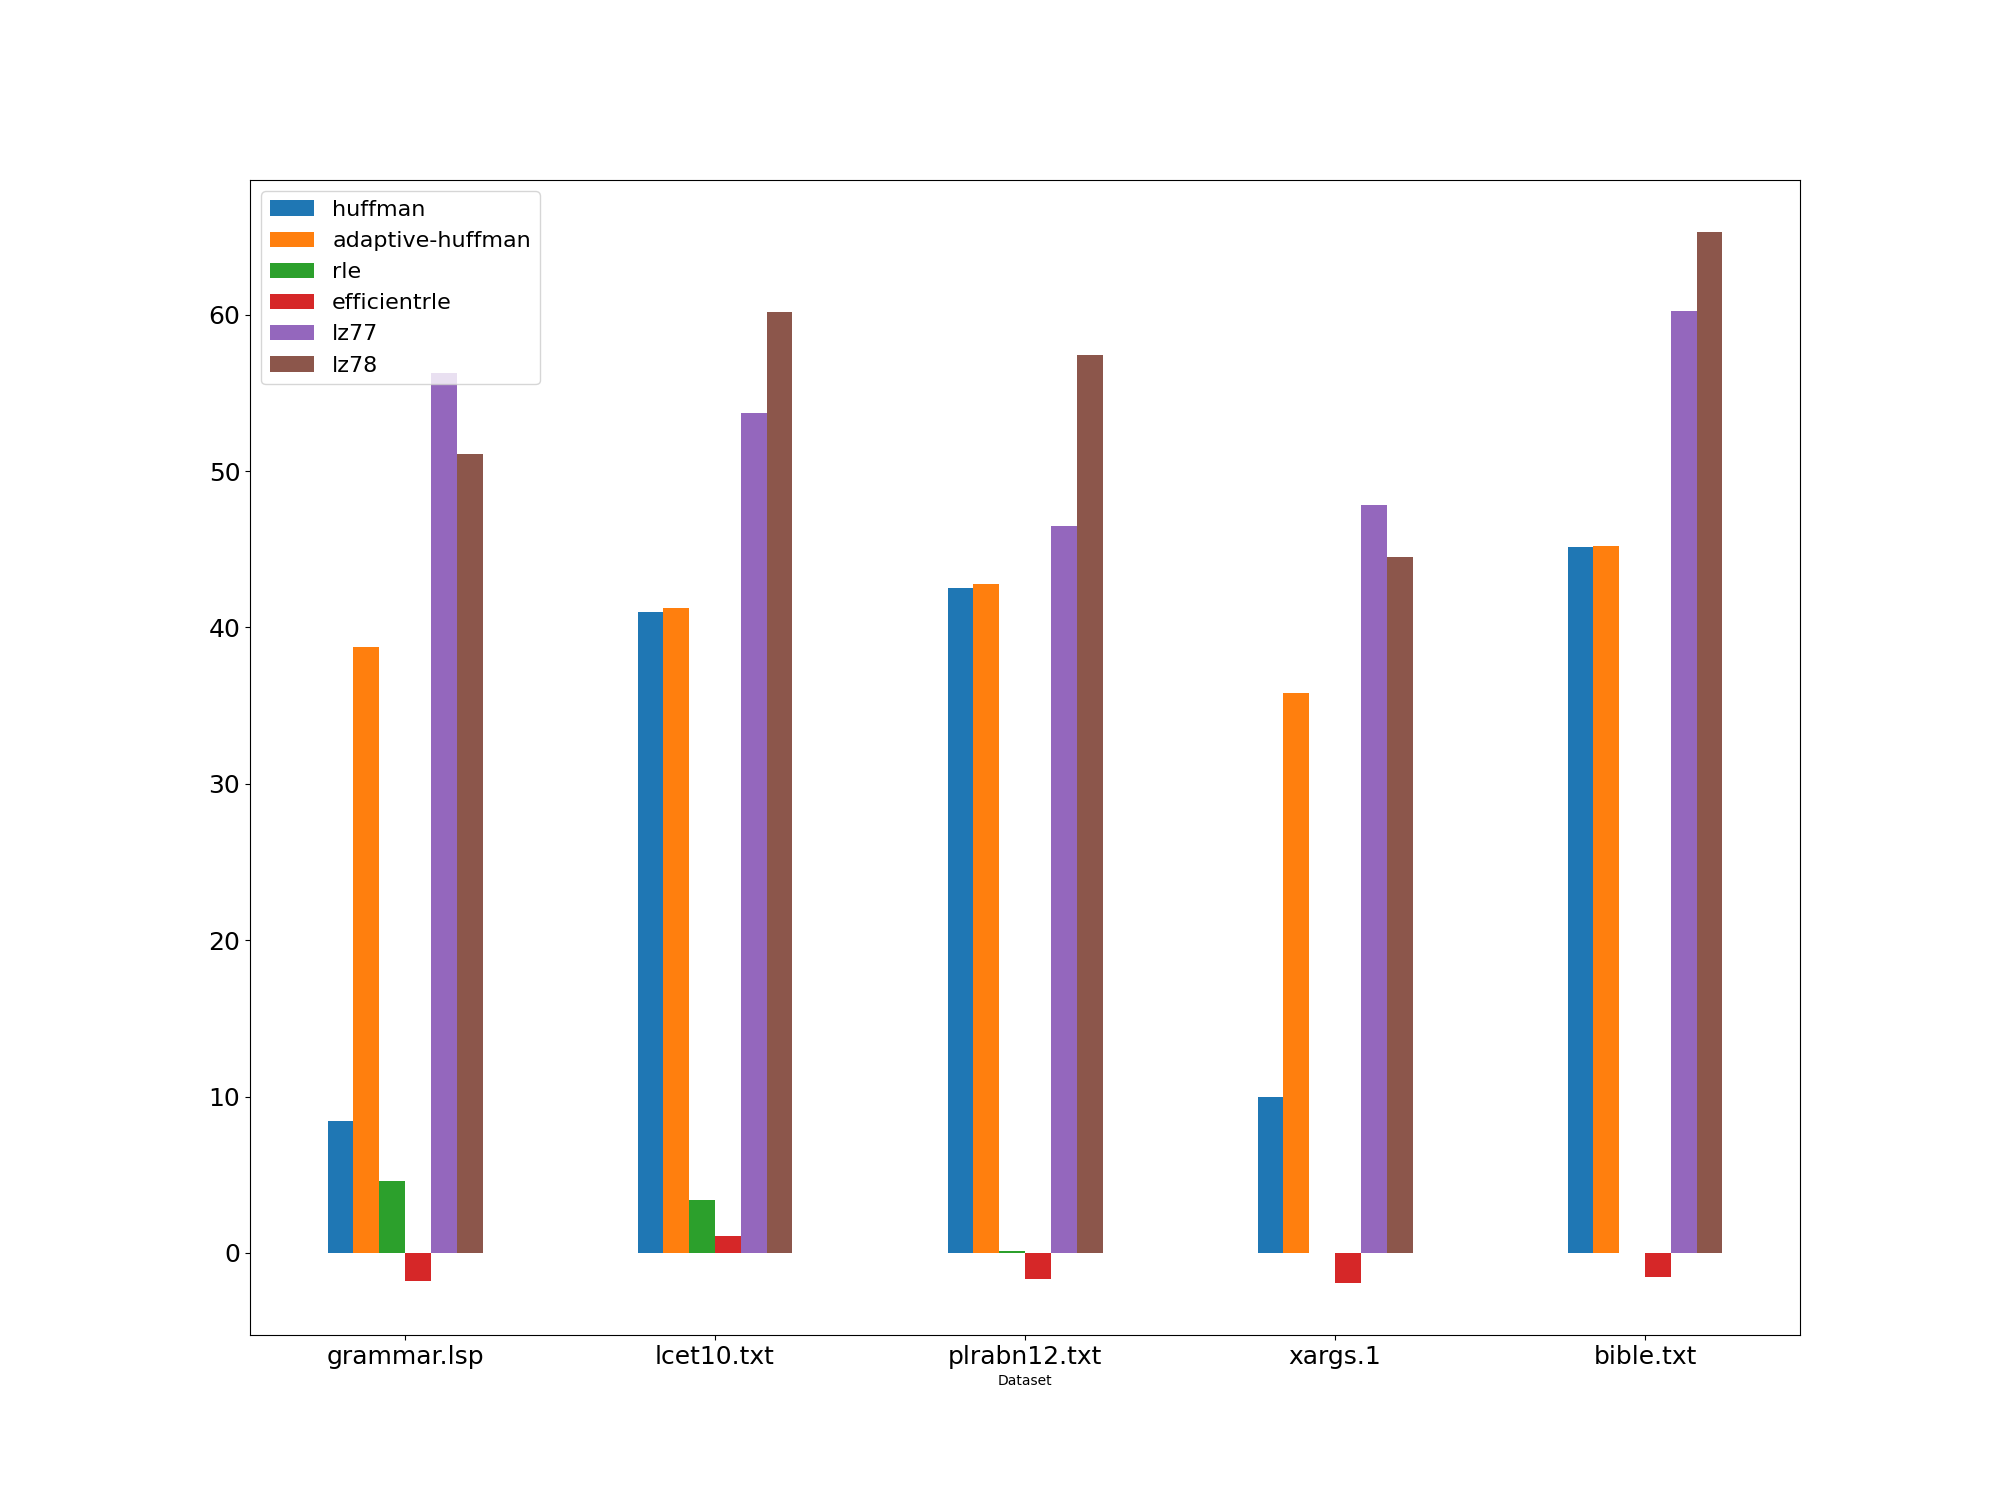
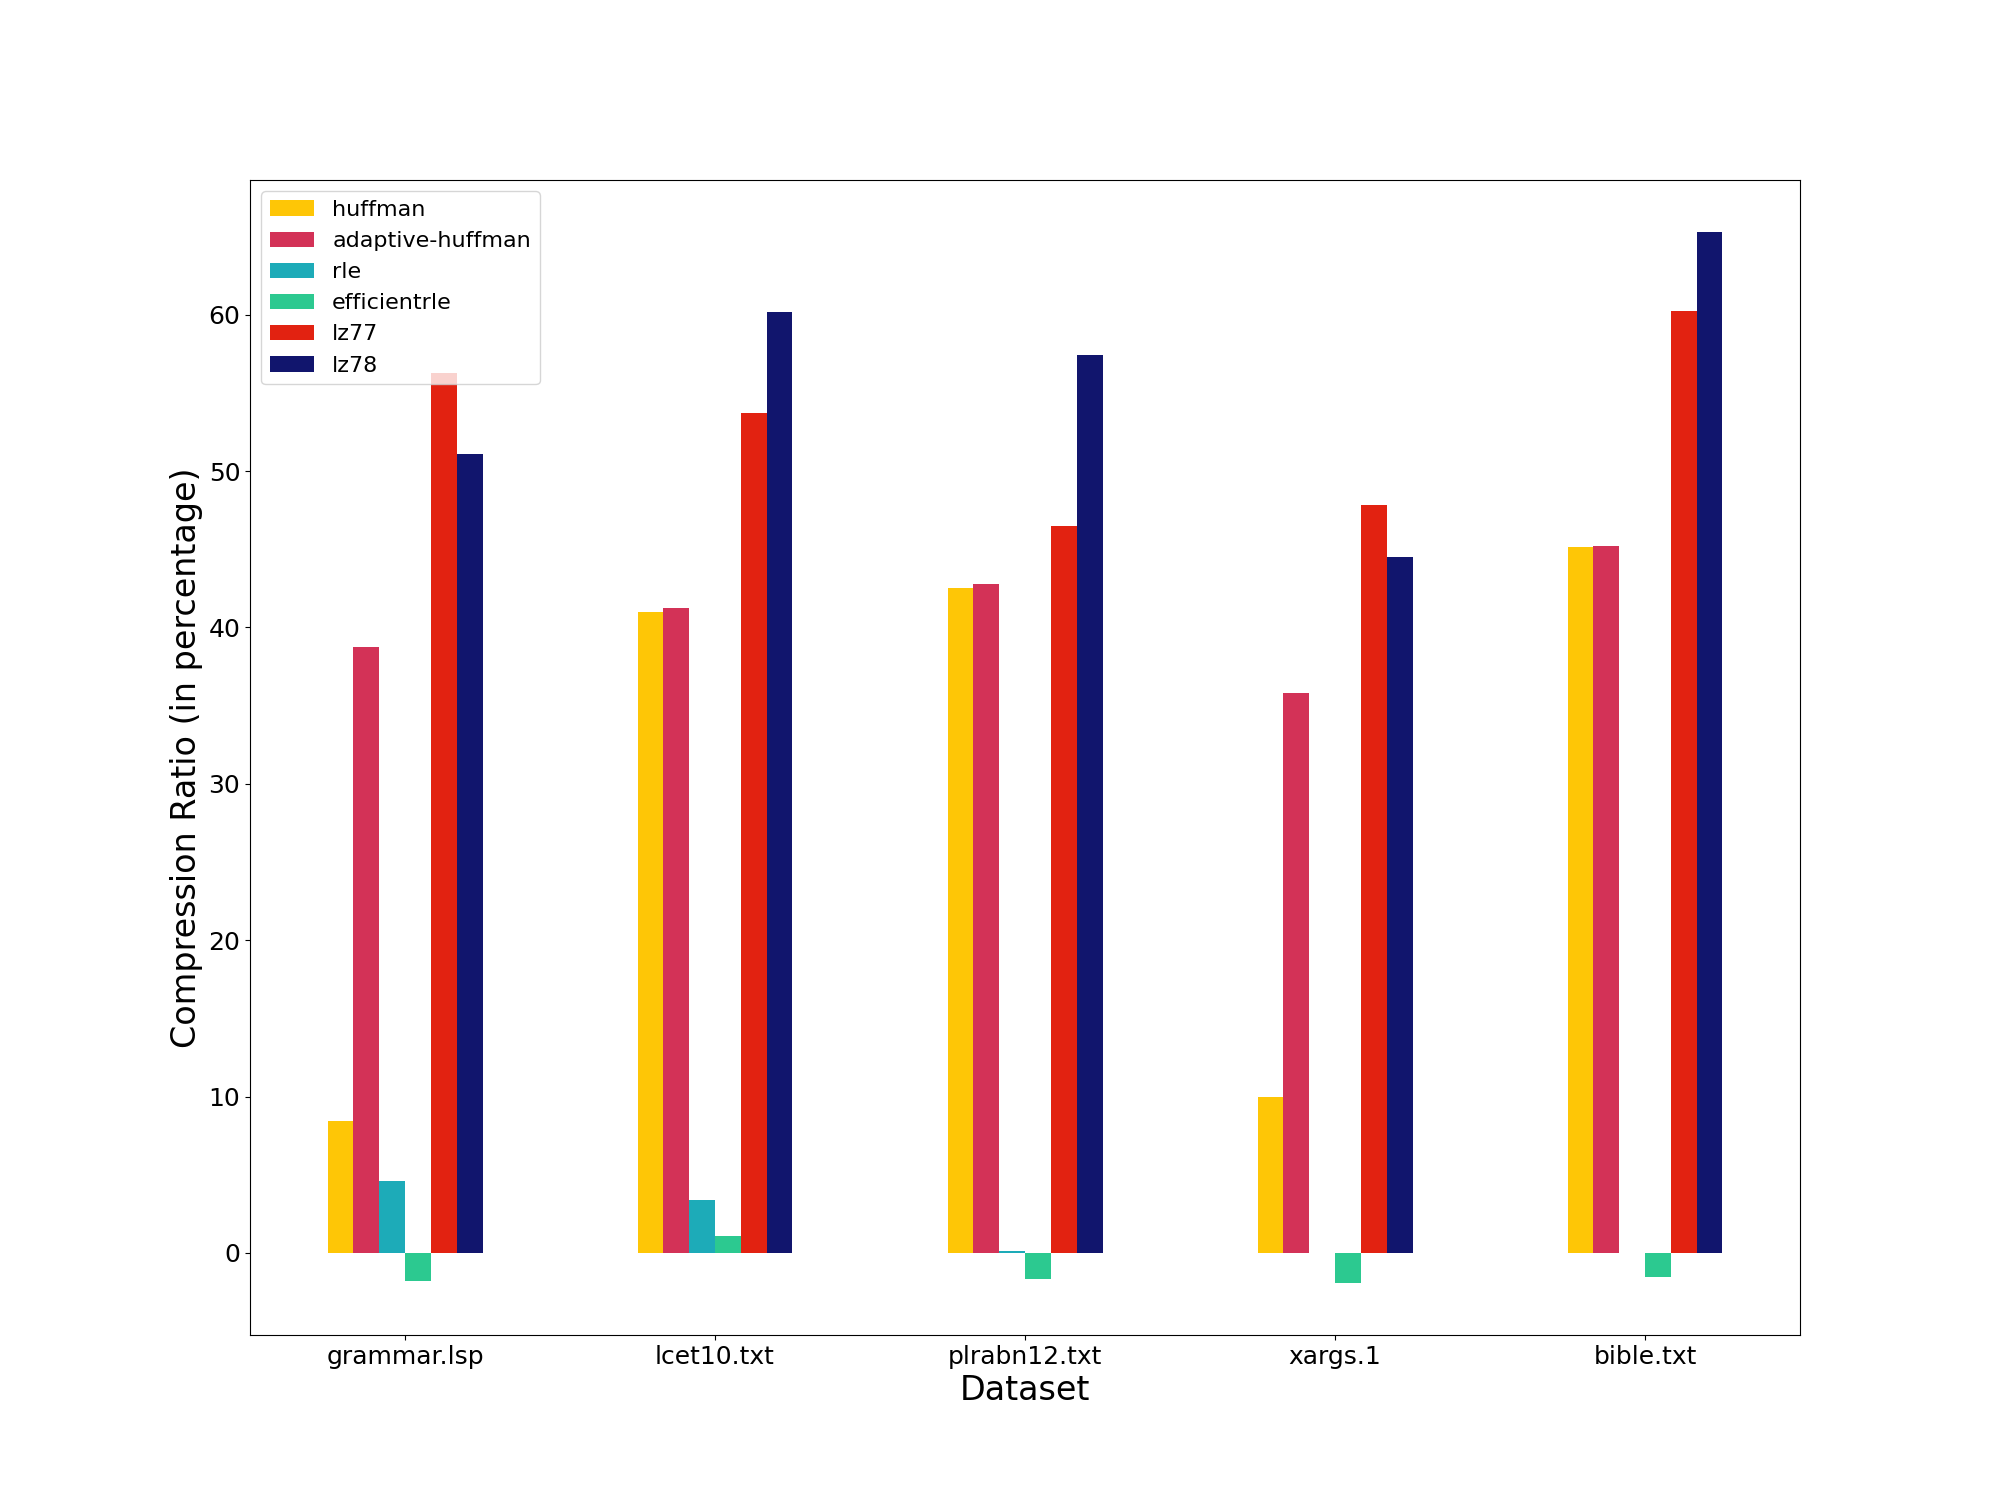
update bar graph palette and font size

diff --git a/csv_to_graph.py b/csv_to_graph.py
@@ -32,7 +32,9 @@ plotd['Dataset'] = datasets[0][:26]
 
 for i in range(5):
     plotd_new = plotd.iloc[(i*5):((i+1)*5)]
-    ax = plotd_new.plot.bar(x = "Dataset", rot=0, figsize=(20, 15), fontsize=18)
+    ax = plotd_new.plot.bar(x = "Dataset", rot=0, figsize=(20, 15), fontsize=18, color=['#FEC606', '#D33257', '#1DABB8', '#2CC990', '#E22211', '#11156D'])
     ax.legend(fontsize=16)
+    ax.set_xlabel('Dataset', fontsize = 24)
+    ax.set_ylabel('Compression Ratio (in percentage)', fontsize = 24)
     fig = ax.get_figure()
     fig.savefig("./Results/" + "output" + str(i+1) + ".png")
